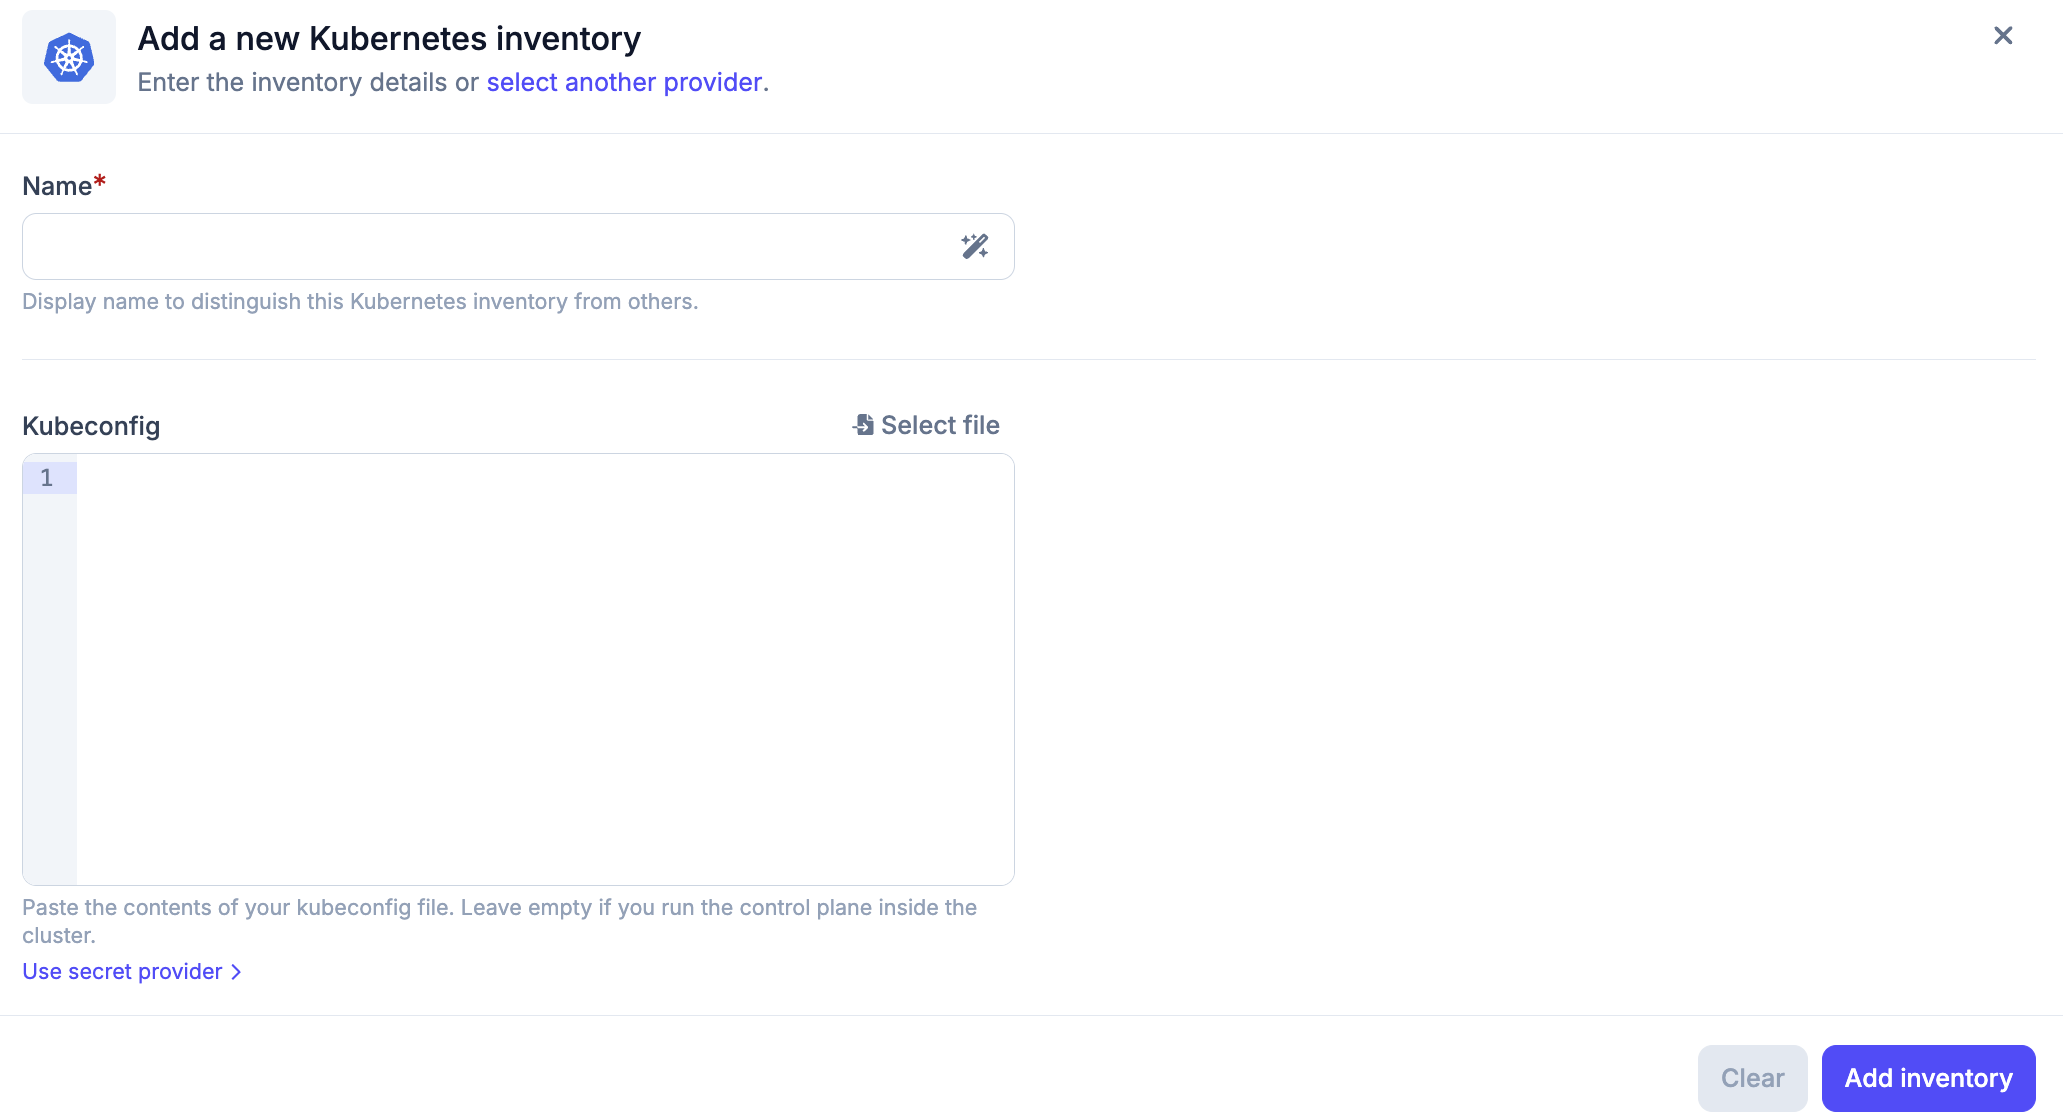
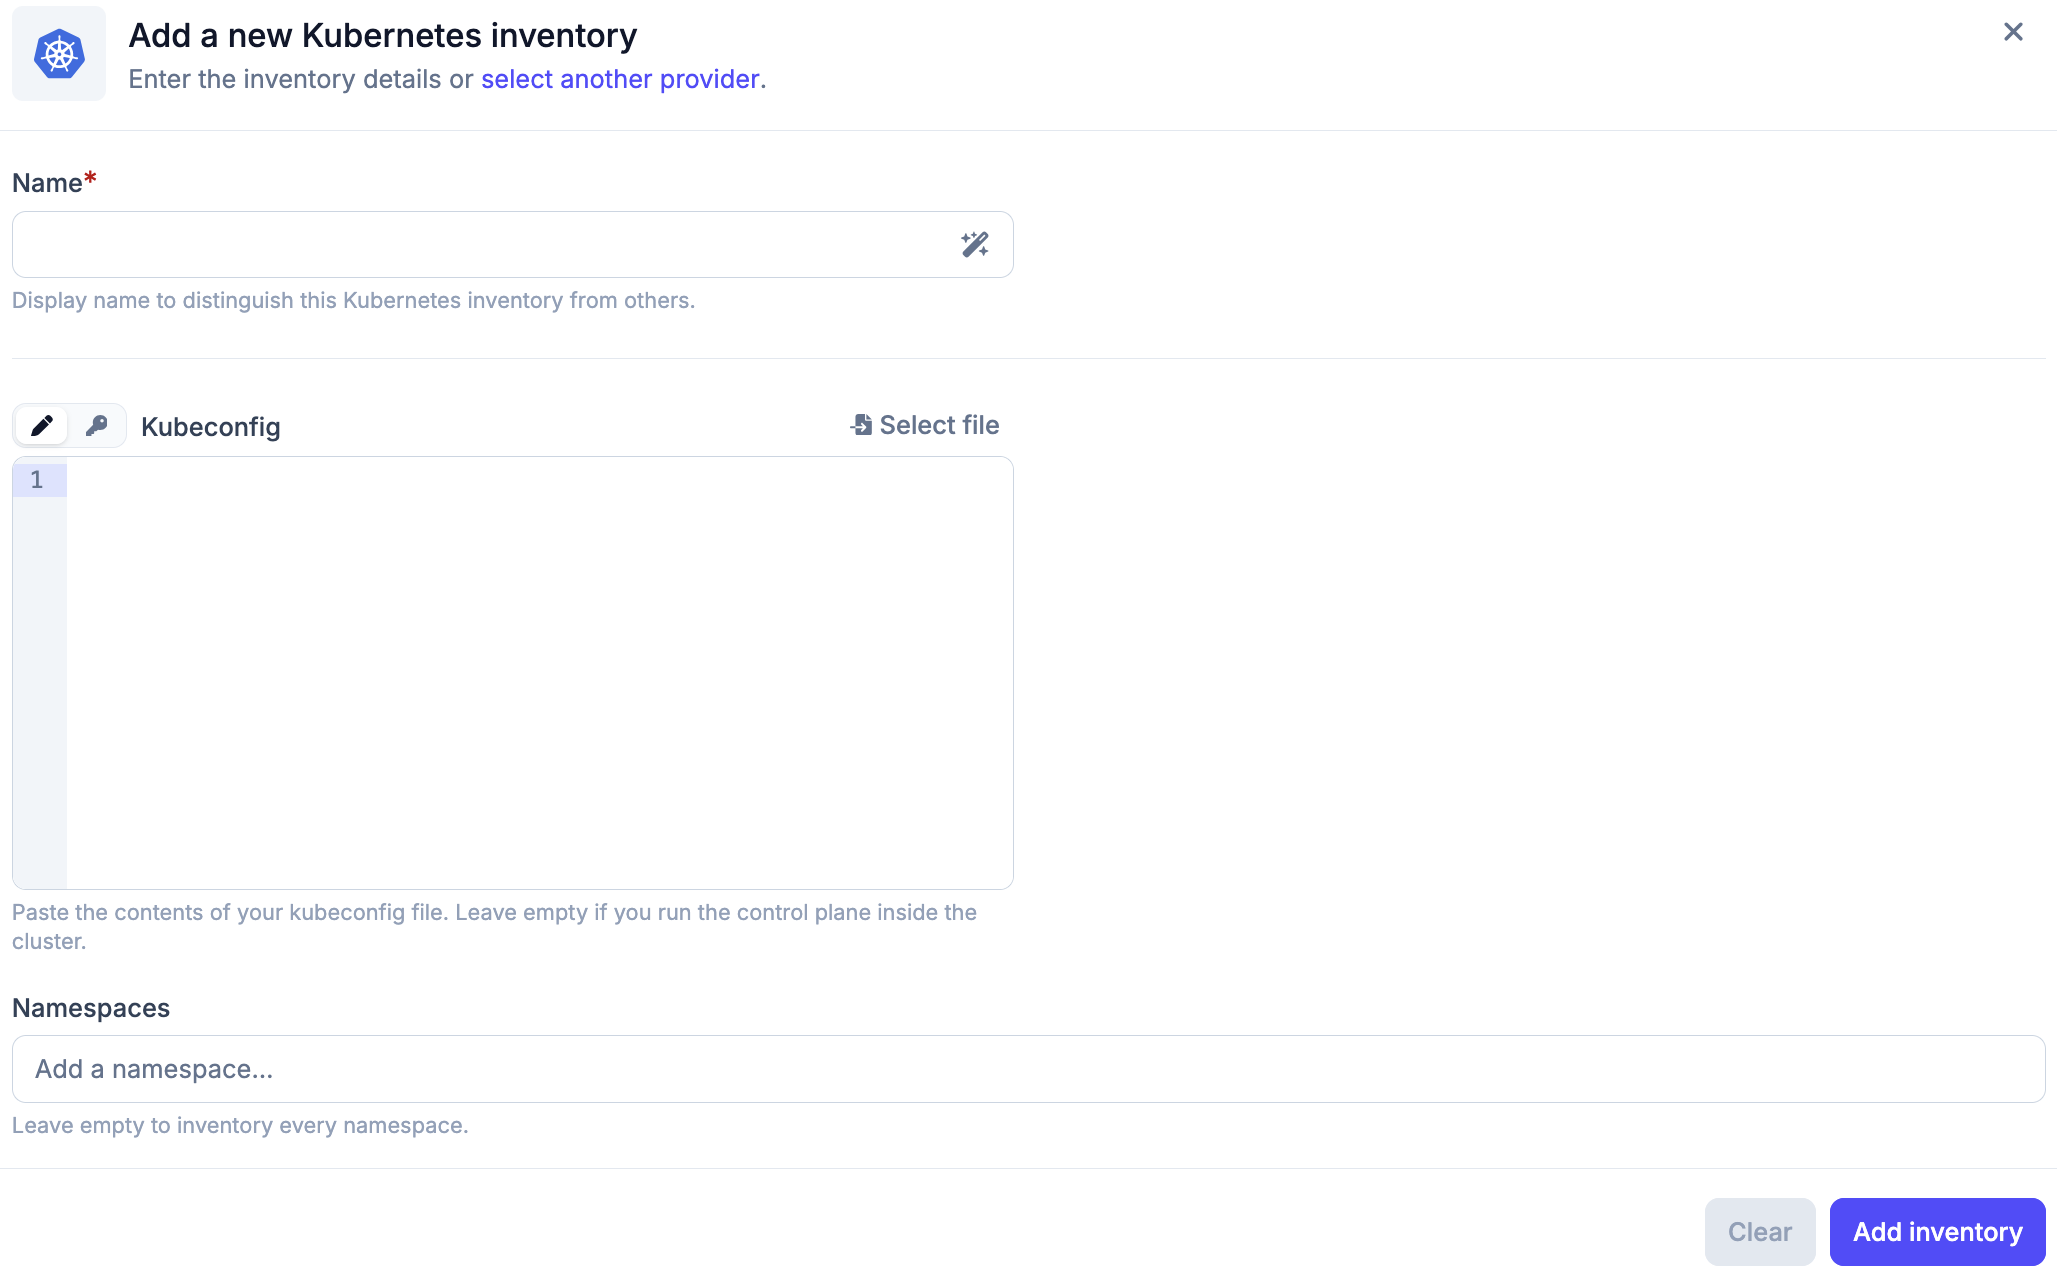
add namespace filters to k8s inventory docs

diff --git a/content/docs/control-plane/infrastructure/inventories/kubernetes.md b/content/docs/control-plane/infrastructure/inventories/kubernetes.md
@@ -17,7 +17,7 @@ directly from Plakar Control Plane.
 
 | Resource                     | Source | Store | Destination |
 | ---------------------------- | ------ | ----- | ----------- |
-| PersistentVolumeClaims (PVC) | Yes    | No    | No          |
+| PersistentVolumeClaims (PVC) | Yes    | No    | Yes         |
 
 ## Authentication
 
@@ -34,6 +34,8 @@ When creating an Kubernetes inventory in Plakar Control Plane, you must provide:
   Plane runs inside the cluster, in which case it uses the in-cluster
   configuration instead. The kubeconfig can also be loaded from a
   [secret provider](../secret-providers).
+- **Namespaces**: namespaces to discover resources from. Leave it empty for the
+  inventory to discover resources in every namespace in the cluster.
 
 ## Adding the Kubernetes Inventory
 
